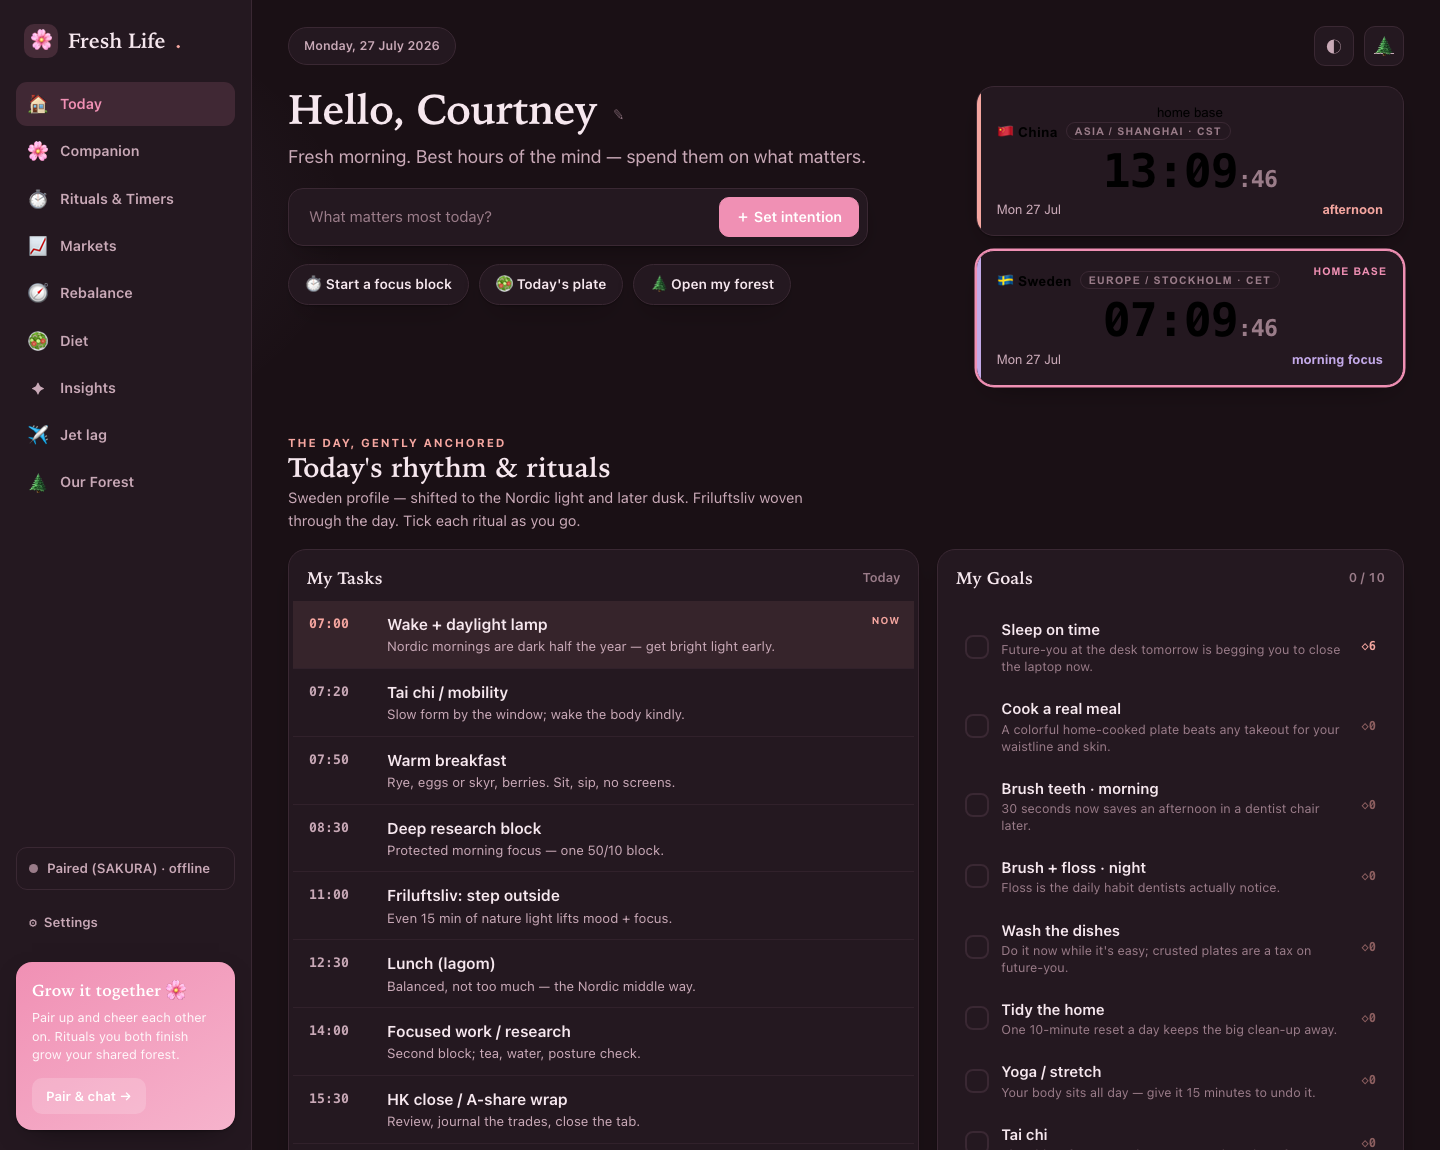
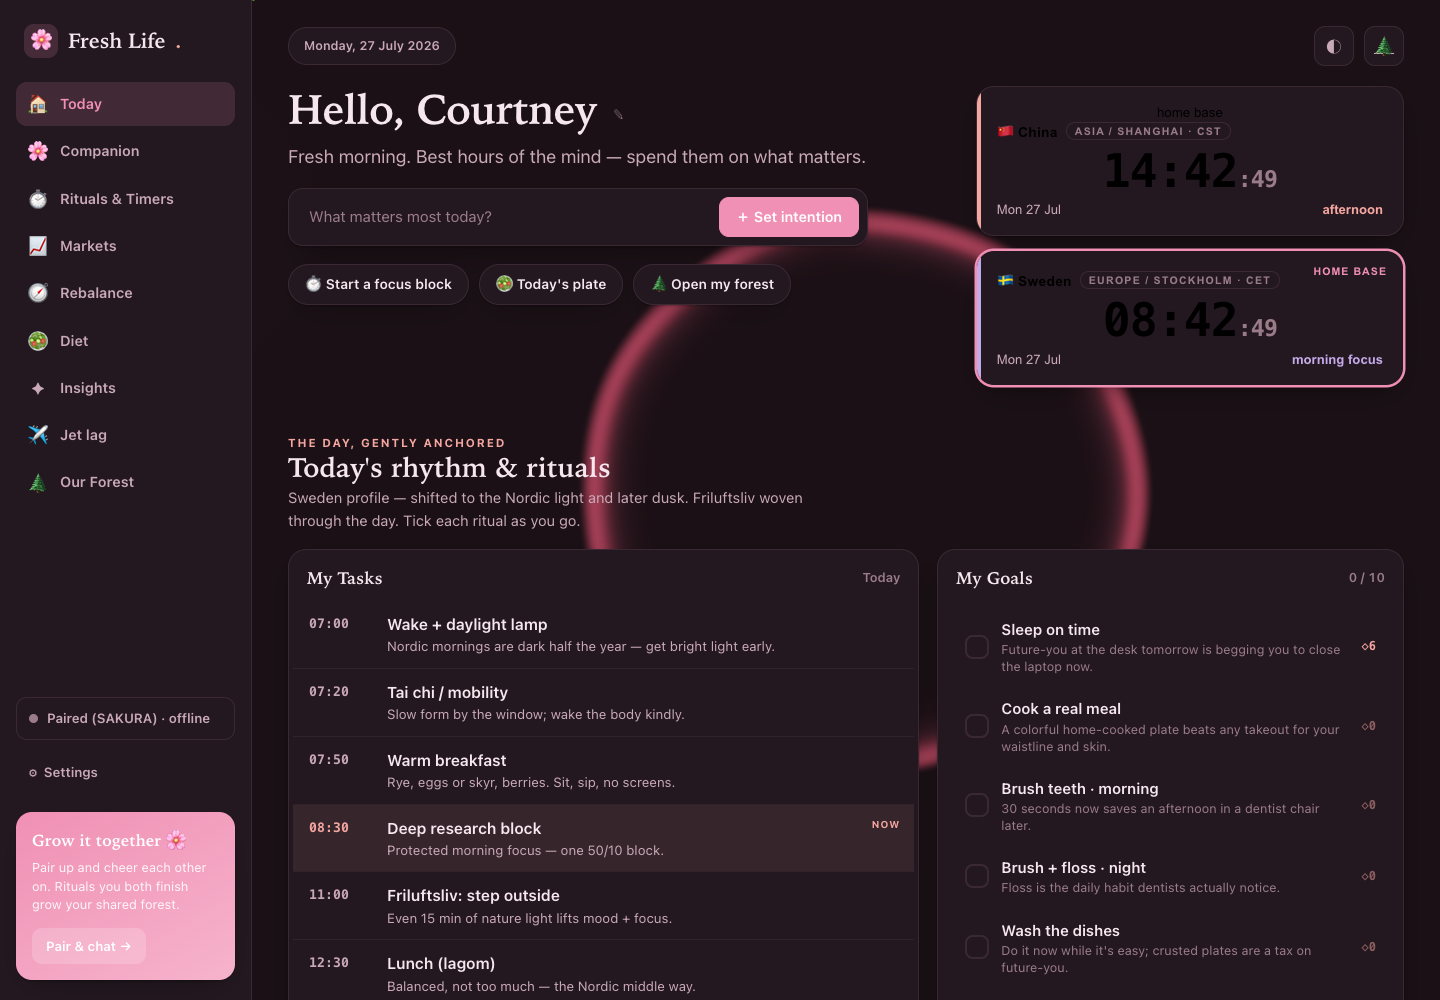
Update README: hero screenshots now show the sakura halo
- Replace the light + dark dashboard screenshots with in-context captures
  that show the Vanta HALO glowing behind the UI.
- Small caption/wording polish.

diff --git a/README.md b/README.md
@@ -12,7 +12,7 @@
 
 ---
 
-![The Fresh Life dashboard in light mode](docs/screenshots/dashboard-light.png)
+![The Fresh Life dashboard in light mode, with the sakura halo glowing behind it](docs/screenshots/dashboard-light.png)
 
 ## Why this exists
 
@@ -32,7 +32,7 @@ It's deliberately **kind, not naggy**: small repeatable rituals, gentle nudges, 
 - **🌲 A reward forest** — every ritual or finished timer plants a tree in [`garden.html`](garden.html). Keep going and bunnies, squirrels, and the occasional fox move in. It only ever grows.
 - **💞 Two-person mode** — pair with someone you love and cheer each other on (see below).
 - **🌸 A gentle AI companion** — encouragement and a kind read on your patterns, powered by Claude (see below).
-- **🌸 A living sakura halo** — a glowing ring ([Vanta.js HALO](https://www.vantajs.com/?effect=halo) / WebGL) drifts behind the whole dashboard, tinted to the theme (a rose halo over plum at night, a soft rose glow by day), with blossom petals floating over it. It bows out gracefully if you prefer reduced motion.
+- **🌀 A living sakura halo** — a glowing ring ([Vanta.js HALO](https://www.vantajs.com/?effect=halo) / WebGL) drifts behind the whole dashboard, tinted to the theme (a rose halo over plum at night, a soft rose glow by day), with blossom petals floating over it. It bows out gracefully if you prefer reduced motion.
 
 ![The glowing sakura halo behind the UI](docs/screenshots/halo.png)
 
@@ -42,7 +42,7 @@ It's deliberately **kind, not naggy**: small repeatable rituals, gentle nudges, 
 <td width="50%"><img src="docs/screenshots/forest.png" alt="The reward forest"></td>
 </tr>
 <tr>
-<td align="center"><em>Twilight sakura night mode</em></td>
+<td align="center"><em>Twilight sakura night mode, halo aglow</em></td>
 <td align="center"><em>The reward forest — grown from your rituals</em></td>
 </tr>
 </table>
